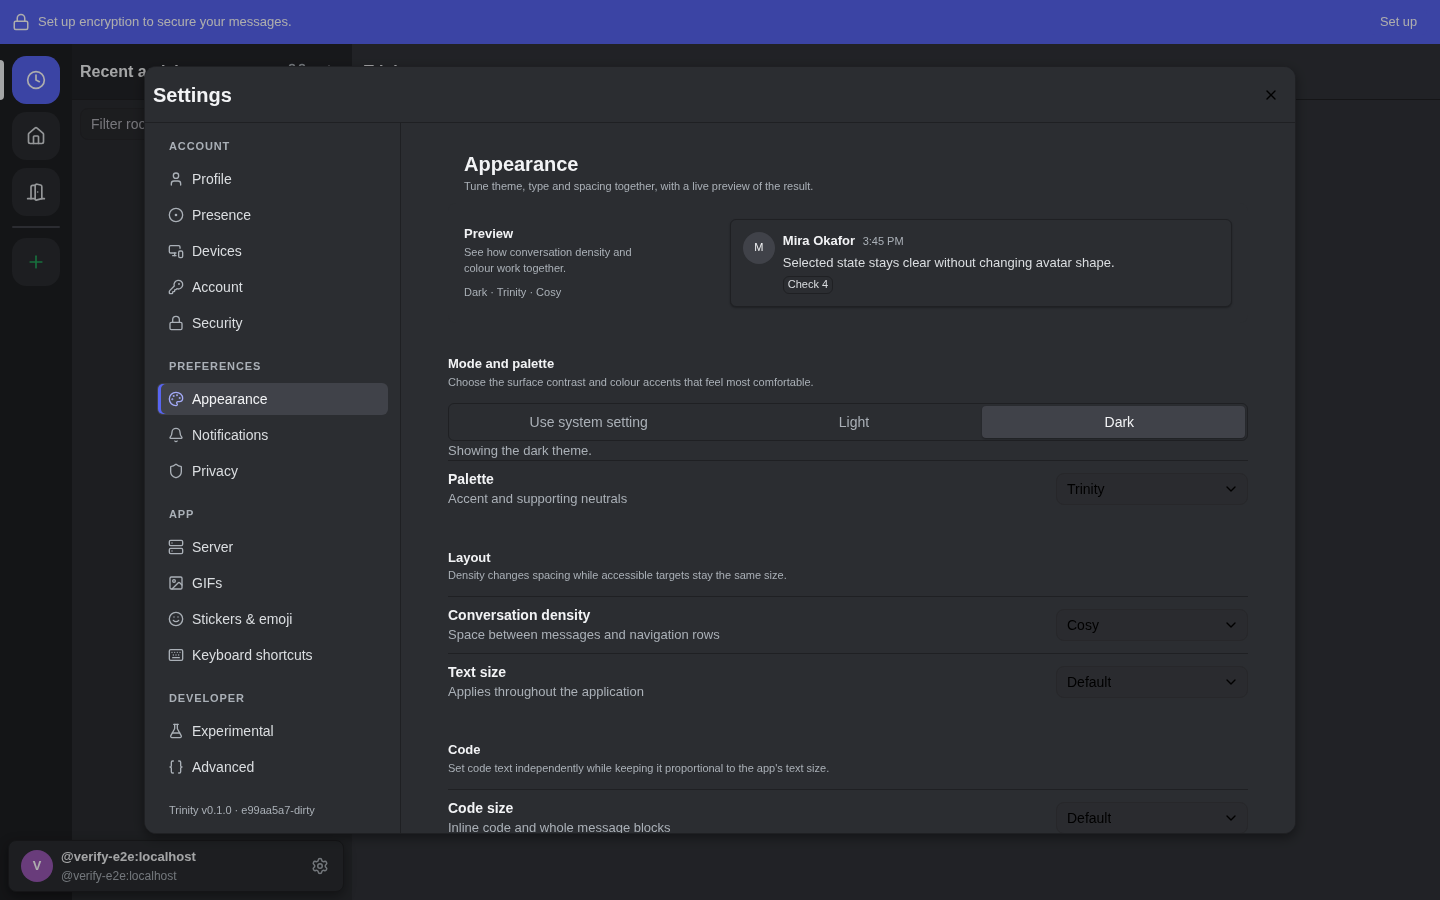
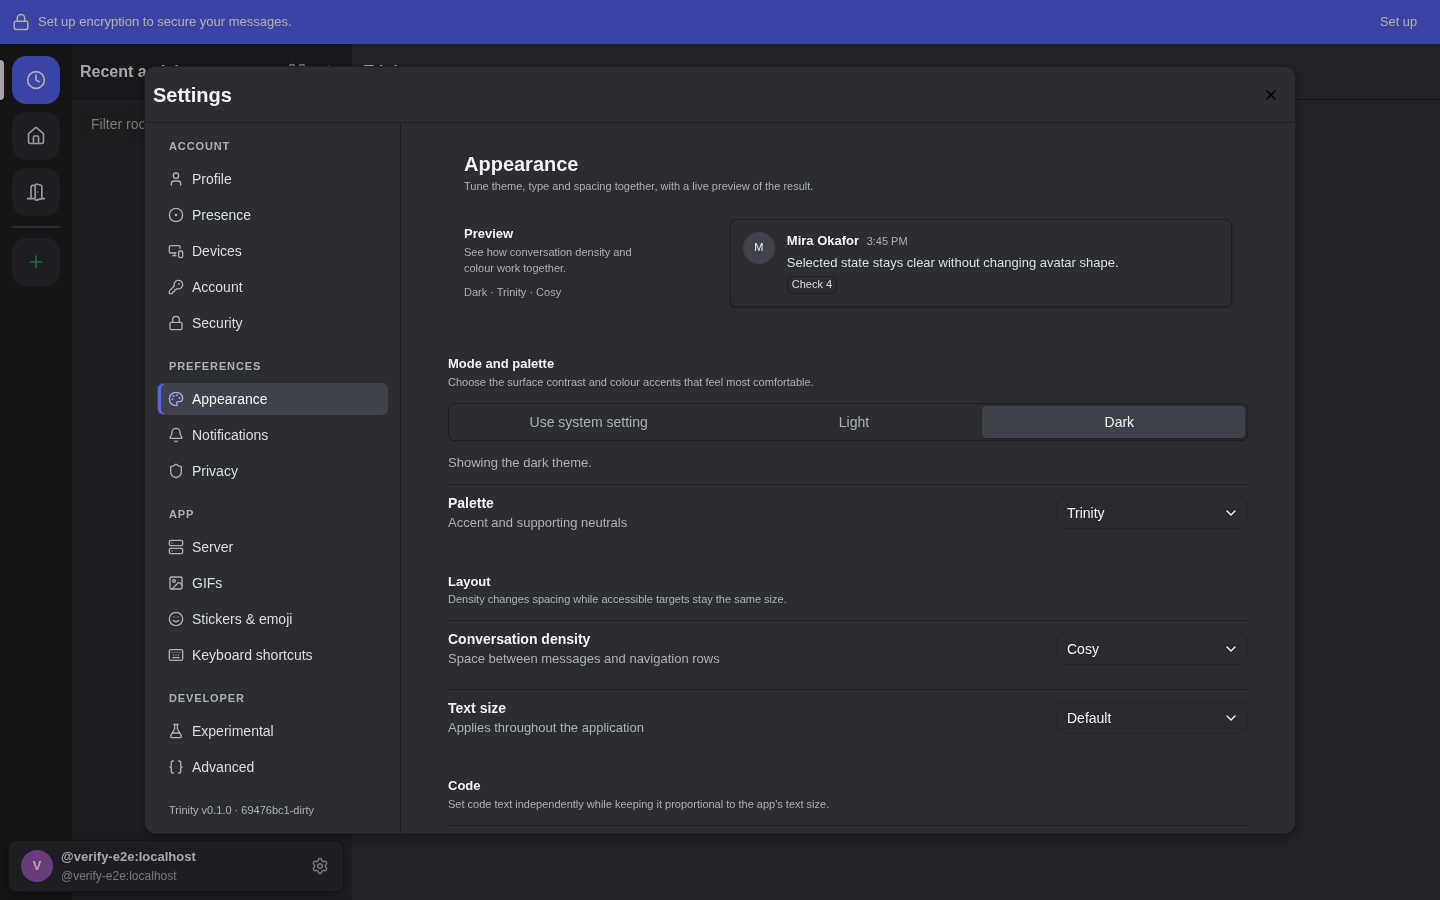
fix(settings): address content review findings
Restore keyboard-only focus cues, enforce coarse-pointer select targets,
and correct settings group semantics. Keep select and switch text readable
in dark mode while preserving muted placeholders, with RTL, narrow-screen,
and contrast coverage.

diff --git a/libs/spartan/select/src/lib/hlm-select-trigger.ts b/libs/spartan/select/src/lib/hlm-select-trigger.ts
@@ -11,8 +11,9 @@ import type { ClassValue } from 'clsx';
  * ┌─ VENDORED FILE — @spartan-ng/cli generated, then diverged ───────────────┐
  *
  * Trinity forwards `aria-labelledby` through this wrapper to the inner
- * combobox button. Upstream exposes no input for that focusable element, so a
- * label placed on `hlm-select-trigger` names a role-less host instead.
+ * combobox button and gives that button the shared coarse-pointer target
+ * floor. Upstream exposes no input for that focusable element, so a label
+ * placed on `hlm-select-trigger` names a role-less host instead.
  *
  * The override is registered in docs/architecture/ui-and-theming.md and pinned
  * by the public select wrapper test.
@@ -46,7 +47,7 @@ export class HlmSelectTrigger {
 	public readonly userClass = input<ClassValue>('', { alias: 'class' });
 	protected readonly _computedClass = computed(() =>
 		hlm(
-			'border-input data-placeholder:text-muted-foreground dark:bg-input/30 dark:hover:bg-input/50 focus-visible:border-ring focus-visible:ring-ring/50 data-[matches-spartan-invalid=true]:ring-destructive/20 dark:data-[matches-spartan-invalid=true]:ring-destructive/40 data-[matches-spartan-invalid=true]:border-destructive dark:data-[matches-spartan-invalid=true]:border-destructive/50 gap-1.5 rounded-lg border bg-transparent py-2 ps-2.5 pe-2 text-sm transition-colors focus-visible:ring-3 data-[matches-spartan-invalid=true]:ring-3 data-[size=default]:h-8 data-[size=sm]:h-7 data-[size=sm]:rounded-[min(var(--radius-md),10px)] *:data-[slot=select-value]:gap-1.5 flex w-fit items-center justify-between whitespace-nowrap outline-none disabled:cursor-not-allowed disabled:opacity-50 *:data-[slot=select-value]:line-clamp-1 *:data-[slot=select-value]:flex *:data-[slot=select-value]:items-center [&_ng-icon]:pointer-events-none [&_ng-icon]:shrink-0',
+			'border-input text-[var(--trinity-text-bright)] data-placeholder:text-muted-foreground dark:bg-input/30 dark:hover:bg-input/50 focus-visible:border-ring focus-visible:ring-ring/50 data-[matches-spartan-invalid=true]:ring-destructive/20 dark:data-[matches-spartan-invalid=true]:ring-destructive/40 data-[matches-spartan-invalid=true]:border-destructive dark:data-[matches-spartan-invalid=true]:border-destructive/50 gap-1.5 rounded-lg border bg-transparent py-2 ps-2.5 pe-2 text-sm transition-colors focus-visible:ring-3 data-[matches-spartan-invalid=true]:ring-3 min-h-[max(var(--trinity-density-control-size),var(--trinity-interaction-target-min-size))] data-[size=default]:h-8 data-[size=sm]:h-7 data-[size=sm]:rounded-[min(var(--radius-md),10px)] *:data-[slot=select-value]:gap-1.5 flex w-fit items-center justify-between whitespace-nowrap outline-none disabled:cursor-not-allowed disabled:opacity-50 *:data-[slot=select-value]:line-clamp-1 *:data-[slot=select-value]:flex *:data-[slot=select-value]:items-center [&_ng-icon]:pointer-events-none [&_ng-icon]:shrink-0',
 			this.userClass(),
 		),
 	);

diff --git a/libs/feature/settings/src/lib/shared/settings-toggle-row.directive.ts b/libs/feature/settings/src/lib/shared/settings-toggle-row.directive.ts
@@ -10,7 +10,7 @@ import { Directive, input } from '@angular/core';
     class:
       'mx-4 flex cursor-pointer flex-row-reverse items-center justify-between gap-[var(--trinity-density-row-gap)] border-t border-solid border-[var(--trinity-border-subtle)] px-[var(--trinity-density-row-padding-inline)] py-[var(--trinity-density-row-padding-block)] text-start text-[length:var(--trinity-type-control-size)] leading-[var(--trinity-type-control-line-height)] font-[var(--trinity-type-control-weight)] hover:bg-[var(--trinity-state-hover-surface)]',
     style:
-      'min-height: max(var(--trinity-density-control-size), var(--trinity-interaction-target-min-size))',
+      'min-height: max(var(--trinity-density-control-size), var(--trinity-interaction-target-min-size)); color: var(--trinity-text-bright)',
     '[style.margin-inline-start]':
       "nested() ? 'calc(var(--trinity-space-4) + var(--trinity-space-4))' : null",
   },

diff --git a/libs/components/select/src/lib/trn-select.component.spec.ts b/libs/components/select/src/lib/trn-select.component.spec.ts
@@ -59,6 +59,16 @@ describe('TrnSelectComponent', () => {
     expect(container.querySelector('button')?.className).toContain('w-full');
   });
 
+  it('keeps the shared coarse-pointer target floor on the trigger', async () => {
+    const { container } = await render(HostComponent);
+    const buttonClass = container.querySelector('button')?.className;
+
+    expect(buttonClass).toContain(
+      'min-h-[max(var(--trinity-density-control-size),var(--trinity-interaction-target-min-size))]',
+    );
+    expect(buttonClass).toContain('text-[var(--trinity-text-bright)]');
+  });
+
   it('forwards its accessible name to the actual combobox trigger', async () => {
     const { container } = await render(HostComponent);
     const button = container.querySelector('[role=combobox]');

diff --git a/libs/feature/settings/src/lib/shared/settings-group/settings-group.component.ts b/libs/feature/settings/src/lib/shared/settings-group/settings-group.component.ts
@@ -5,11 +5,14 @@ import { ChangeDetectionStrategy, Component, input } from '@angular/core';
   selector: 'trn-settings-group',
   changeDetection: ChangeDetectionStrategy.OnPush,
   host: {
-    class: 'grid gap-[var(--trinity-space-4)]',
+    class: 'block',
   },
   template: `
-    <section [attr.aria-labelledby]="headingId()">
-      <header class="mb-[var(--trinity-space-4)]">
+    <section
+      class="grid gap-[var(--trinity-space-4)]"
+      [attr.aria-labelledby]="headingId()"
+    >
+      <header>
         <h3
           class="m-0 text-[length:var(--trinity-type-body-size)] leading-[var(--trinity-type-body-line-height)] font-semibold text-[var(--trinity-text-bright)]"
           [id]="headingId()"

diff --git a/libs/feature/settings/src/lib/image-packs/image-packs-section.component.html b/libs/feature/settings/src/lib/image-packs/image-packs-section.component.html
@@ -1,12 +1,12 @@
 <section class="packs" aria-labelledby="image-packs-title">
-  <header class="packs__header">
+  <div class="packs__header">
     <trn-settings-section-heading
       title="Stickers & emoji"
       headingId="image-packs-title"
       description="Install image packs for stickers and custom emoji suggestions."
       [primary]="true"
     />
-  </header>
+  </div>
 
   <section class="packs__section" aria-labelledby="installed-packs-title">
     <h3 id="installed-packs-title" #installedHeading tabindex="-1">

diff --git a/libs/components/radio-group/src/lib/trn-radio-group.component.ts b/libs/components/radio-group/src/lib/trn-radio-group.component.ts
@@ -110,7 +110,7 @@ export interface TrnRadioOption<T> {
         box-shadow: var(--trinity-shadow-raised);
       }
 
-      :host([data-variant='segmented']) label:has(brn-radio:focus-visible) {
+      :host([data-variant='segmented']) label:has(input:focus-visible) {
         outline: var(--trinity-focus-ring-width) solid var(--trinity-focus-ring);
         outline-offset: var(--trinity-focus-ring-offset);
       }

diff --git a/libs/feature/settings/src/lib/shared/settings-group/settings-group.component.spec.ts b/libs/feature/settings/src/lib/shared/settings-group/settings-group.component.spec.ts
@@ -16,6 +16,7 @@ describe('SettingsGroupComponent', () => {
     const heading = container.querySelector('h3');
 
     expect(section?.getAttribute('aria-labelledby')).toBe('layout-heading');
+    expect(section?.className).toContain('grid');
     expect(heading?.id).toBe('layout-heading');
     expect(section?.textContent).toContain(
       'Choose the spacing used by the application.',

diff --git a/docs/architecture/ui-and-theming.md b/docs/architecture/ui-and-theming.md
@@ -304,21 +304,21 @@ a lost override fails the suite rather than shipping. This table is the register
 step with the banner in
 [`hlm-dropdown-menu.ts`](https://github.com/quwisky/trinity-matrix-client/blob/develop/libs/spartan/dropdown-menu/src/lib/hlm-dropdown-menu.ts).
 
-| File and symbol                                              | Override                                                                                                                                                                                                                                                                          | Pinned by                       |
-| ------------------------------------------------------------ | --------------------------------------------------------------------------------------------------------------------------------------------------------------------------------------------------------------------------------------------------------------------------------- | ------------------------------- |
-| `dropdown-menu` · `HlmDropdownMenuSubTrigger`                | `_handleClick` shadowed so a sub-trigger click opens the submenu instead of toggling it closed under zoneless change detection                                                                                                                                                    | `dropdown-menu-submenu.spec.ts` |
-| `dropdown-menu` · `HlmDropdownMenuSubTrigger`                | The same shadow re-does CDK's focus move, so keyboard Enter and Space land inside the submenu                                                                                                                                                                                     | `dropdown-menu-submenu.spec.ts` |
-| `dropdown-menu` · `HlmDropdownMenuSubTrigger`                | `side` defaults to `'right'`, so a submenu opens beside its parent rather than over it                                                                                                                                                                                            | `dropdown-menu-submenu.spec.ts` |
-| `dropdown-menu` · `HlmDropdownMenu` and `HlmDropdownMenuSub` | `CdkTargetMenuAim` host directive                                                                                                                                                                                                                                                 | `dropdown-menu-submenu.spec.ts` |
-| `dropdown-menu` · `HlmDropdownMenuItem`                      | A destructive item's text and icon use `text-danger`, not upstream's `text-destructive`                                                                                                                                                                                           | `dropdown-menu-submenu.spec.ts` |
-| `badge` · `badgeVariants`                                    | Adds `success` and `warning` variants that upstream Helm does not ship                                                                                                                                                                                                            | `helm-components.spec.ts`       |
-| `tabs` · `HlmTabsPaginatedList`                              | Generated and then deleted — nothing wraps the scrolling trigger row, and it pulled `@angular/cdk/observers`, `@ng-icons/*` and the button lib in behind it                                                                                                                       | `helm-components.spec.ts`       |
-| `dropdown-menu` · `HlmDropdownMenu` and `HlmDropdownMenuSub` | Both `animate-in` / `animate-out` triggers carry `motion-safe:` — upstream ships them bare                                                                                                                                                                                        | `kit-reduced-motion.spec.mjs`   |
-| `tooltip` · `DEFAULT_TOOLTIP_CONTENT_CLASSES`                | All three `animate-in` / `animate-out` triggers carry `motion-safe:`, including `data-[state=delayed-open]:`                                                                                                                                                                      | `kit-reduced-motion.spec.mjs`   |
-| `select` · `HlmSelectContent`                                | Both `animate-in` / `animate-out` triggers carry `motion-safe:`                                                                                                                                                                                                                   | `kit-reduced-motion.spec.mjs`   |
-| `select` · `HlmSelectTrigger`                                | Forwards `aria-labelledby` to the inner focusable combobox button instead of leaving it on a role-less wrapper                                                                                                                                                                    | `trn-select.component.spec.ts`  |
-| `progress` · `HlmProgressIndicator`                          | Its **indeterminate** sweep is guarded for reduced motion in `theme/spartan.css` — the class is applied through a `[class.…]` binding, so the guard is a rule rather than a variant. The determinate `transition-all` is not covered and still rests on the `global.scss` blanket | `kit-reduced-motion.spec.mjs`   |
-| Every file with `hostDirectives`, kit and public tier alike  | Every entry states its `inputs` and `outputs` explicitly, even when empty — the generator's shorthand decides the element's public API by omission                                                                                                                                | `host-directives.spec.mjs`      |
+| File and symbol                                              | Override                                                                                                                                                                                                                                                                          | Pinned by                                                    |
+| ------------------------------------------------------------ | --------------------------------------------------------------------------------------------------------------------------------------------------------------------------------------------------------------------------------------------------------------------------------- | ------------------------------------------------------------ |
+| `dropdown-menu` · `HlmDropdownMenuSubTrigger`                | `_handleClick` shadowed so a sub-trigger click opens the submenu instead of toggling it closed under zoneless change detection                                                                                                                                                    | `dropdown-menu-submenu.spec.ts`                              |
+| `dropdown-menu` · `HlmDropdownMenuSubTrigger`                | The same shadow re-does CDK's focus move, so keyboard Enter and Space land inside the submenu                                                                                                                                                                                     | `dropdown-menu-submenu.spec.ts`                              |
+| `dropdown-menu` · `HlmDropdownMenuSubTrigger`                | `side` defaults to `'right'`, so a submenu opens beside its parent rather than over it                                                                                                                                                                                            | `dropdown-menu-submenu.spec.ts`                              |
+| `dropdown-menu` · `HlmDropdownMenu` and `HlmDropdownMenuSub` | `CdkTargetMenuAim` host directive                                                                                                                                                                                                                                                 | `dropdown-menu-submenu.spec.ts`                              |
+| `dropdown-menu` · `HlmDropdownMenuItem`                      | A destructive item's text and icon use `text-danger`, not upstream's `text-destructive`                                                                                                                                                                                           | `dropdown-menu-submenu.spec.ts`                              |
+| `badge` · `badgeVariants`                                    | Adds `success` and `warning` variants that upstream Helm does not ship                                                                                                                                                                                                            | `helm-components.spec.ts`                                    |
+| `tabs` · `HlmTabsPaginatedList`                              | Generated and then deleted — nothing wraps the scrolling trigger row, and it pulled `@angular/cdk/observers`, `@ng-icons/*` and the button lib in behind it                                                                                                                       | `helm-components.spec.ts`                                    |
+| `dropdown-menu` · `HlmDropdownMenu` and `HlmDropdownMenuSub` | Both `animate-in` / `animate-out` triggers carry `motion-safe:` — upstream ships them bare                                                                                                                                                                                        | `kit-reduced-motion.spec.mjs`                                |
+| `tooltip` · `DEFAULT_TOOLTIP_CONTENT_CLASSES`                | All three `animate-in` / `animate-out` triggers carry `motion-safe:`, including `data-[state=delayed-open]:`                                                                                                                                                                      | `kit-reduced-motion.spec.mjs`                                |
+| `select` · `HlmSelectContent`                                | Both `animate-in` / `animate-out` triggers carry `motion-safe:`                                                                                                                                                                                                                   | `kit-reduced-motion.spec.mjs`                                |
+| `select` · `HlmSelectTrigger`                                | Forwards `aria-labelledby` to the inner focusable combobox button instead of leaving it on a role-less wrapper, applies Trinity's coarse-pointer target floor to that button, and pins its foreground to the theme token                                                          | `trn-select.component.spec.ts`; Settings Playwright journeys |
+| `progress` · `HlmProgressIndicator`                          | Its **indeterminate** sweep is guarded for reduced motion in `theme/spartan.css` — the class is applied through a `[class.…]` binding, so the guard is a rule rather than a variant. The determinate `transition-all` is not covered and still rests on the `global.scss` blanket | `kit-reduced-motion.spec.mjs`                                |
+| Every file with `hostDirectives`, kit and public tier alike  | Every entry states its `inputs` and `outputs` explicitly, even when empty — the generator's shorthand decides the element's public API by omission                                                                                                                                | `host-directives.spec.mjs`                                   |
 
 The two `.spec.ts` files live in
 [`libs/spartan/tests/src/lib`](https://github.com/quwisky/trinity-matrix-client/tree/develop/libs/spartan/tests/src/lib),

diff --git a/CHANGELOG.md b/CHANGELOG.md
@@ -81,7 +81,8 @@ All notable changes to this project are documented here. The format is based on
   conversation preview, a segmented mode picker and labelled two-column control rows, while every
   section gains a clear title and supporting description. Related controls use calmer group
   headings, switches sit on the logical trailing edge, and select fields expose their visible
-  labels to assistive technology. The layout remains contained at 125% text and Compact density.
+  labels to assistive technology. Select values and switch labels retain readable theme-aware
+  foregrounds in dark mode. The layout remains contained at 125% text and Compact density.
 
 - **Read-receipt avatars keep the full timeline edge beside authenticity shields.** A shield now
   reserves space only beside the message content; the “seen by” row spans underneath it and remains
